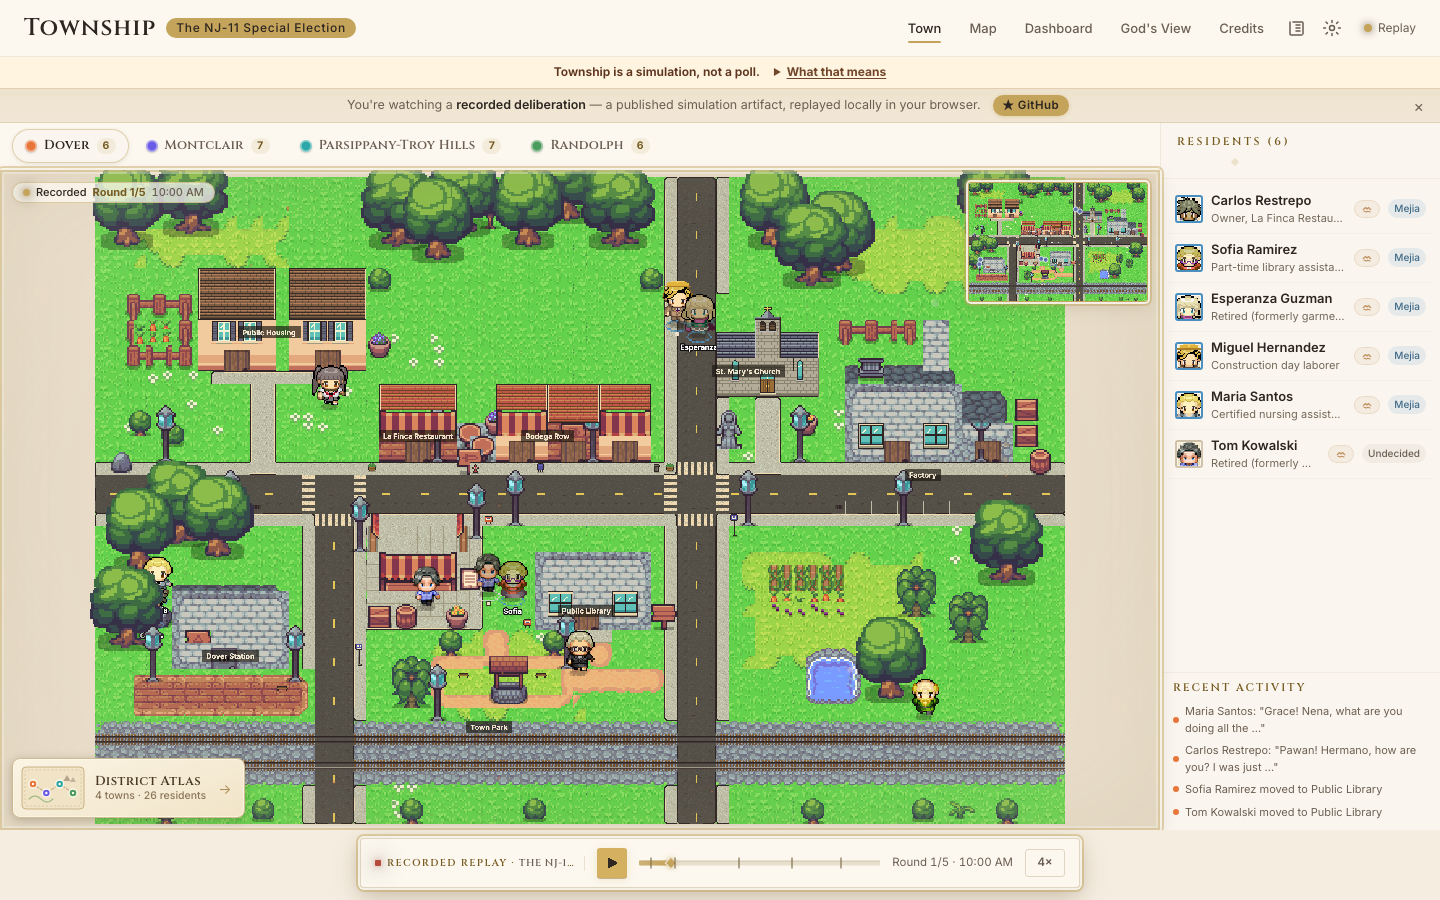
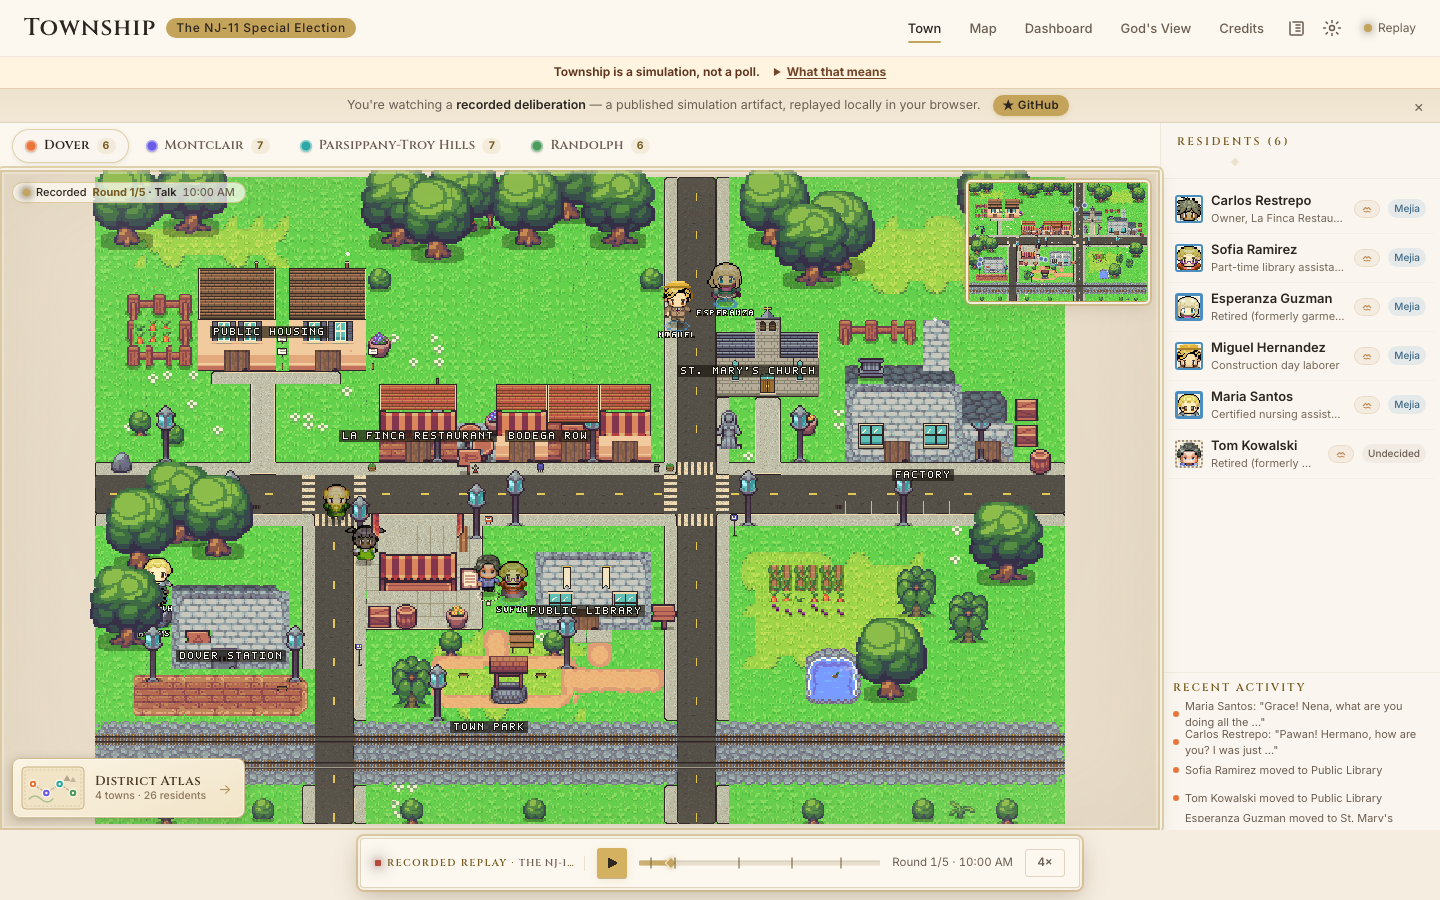
Docs + media: recut hero with decision day, decide and results stills, gallery; final gate
Media: the README hero is recut in five beats — the living overview, the
recorded two-shot, the recorded flip, decision day at the Public Library
(the replay's own decide phase played paced: the polling place opens,
residents queue at the rope, vote one at a time and take their stickers,
then the results bunting), and dusk to night over the decided town. Two
new demo-player stills capture the vote and the results; every scene,
atlas, dashboard, mobile and social capture is regenerated with the
current town. make_gif.py steps the width and palette down to fit the
8 MiB budget instead of failing a whole capture.

Docs: the architecture guide covers NavGrid paths, conversation
choreography, day-part poses, stance tiers, reactions, CivicLayer and
the election derivation, plus the seeded, relationship-aware pairing and
routine meeting places; CLAUDE.md's key-directories table names the new
modules; the media README describes the new hero and stills; the README
gallery gains a row for decision day, results, and the second scenario.

Also from the live-run gate: yard-sign seats go to residents with a
stance before the undecided, and residents still undecided at the vote
cast too and wear a plain sticker (the backend marks them decided).

diff --git a/frontend/src/game/TownScene.ts b/frontend/src/game/TownScene.ts
@@ -1175,7 +1175,6 @@ export class TownScene extends Phaser.Scene {
       const sprite = this.agentSprites.get(id);
       if (!sprite || sprite === this.playerSprite || sprite.isDecided()) continue;
       const stance = sprite.getStance();
-      if (stance.undecided) continue;
       if (mode === "silent" || reducedMotion()) {
         sprite.setDecided(stance.optionId, "silent");
         continue;
@@ -1252,8 +1251,9 @@ export class TownScene extends Phaser.Scene {
   /**
    * Decision day: residents walk to the polling place in `order`, wait at
    * the rope, step up to the ballot box one at a time, cast (voting pulse,
-   * sticker, ballot), and step aside. Residents already stamped, undecided
-   * residents, and anyone mid-conversation are left where they are.
+   * sticker, ballot), and step aside. Residents already stamped and anyone
+   * mid-conversation are left where they are; a resident still undecided
+   * casts too and wears a plain sticker.
    */
   startBallotProcession(order: string[]) {
     if (!this.civic?.isPollingOpen() || reducedMotion()) return;
@@ -1262,7 +1262,7 @@ export class TownScene extends Phaser.Scene {
     const voters = order
       .map((id) => this.agentSprites.get(id))
       .filter((sp): sp is AgentSprite => Boolean(sp) && sp !== this.playerSprite && sp!.active)
-      .filter((sp) => !sp.isDecided() && !sp.getStance().undecided && !this.choreo.inConversation(sp.agentId));
+      .filter((sp) => !sp.isDecided() && !this.choreo.inConversation(sp.agentId));
     const slots = this.civic.getBallotQueueSlots(voters.length);
     voters.forEach((sprite, i) => {
       const slot = slots[i] ?? box;

diff --git a/frontend/src/game/CivicLayer.ts b/frontend/src/game/CivicLayer.ts
@@ -322,12 +322,15 @@ export class CivicLayer {
   /* ── Yard signs ─────────────────────────────────────────────────────── */
 
   /**
-   * Deterministic seats: residents sorted by id, each taking the first free
-   * sign on their own home's lawn, then (second pass) the free sign nearest
-   * their home. Signs may stay blank; nobody gets two.
+   * Deterministic seats: residents with a stance first (a lawn with a sign
+   * to show beats a blank one when seats are scarce), then the undecided,
+   * each sorted by id; every resident takes the first free sign on their
+   * own home's lawn, then (second pass) the free sign nearest their home.
+   * Signs may stay blank; nobody gets two.
    */
   private assignSeats(residents: CivicResident[]): Map<number, CivicResident> {
-    const sorted = [...residents].sort((p, q) => p.id.localeCompare(q.id));
+    const sorted = [...residents].sort((p, q) =>
+      Number(p.undecided) - Number(q.undecided) || p.id.localeCompare(q.id));
     const key = sorted.map((r) => `${r.id}@${r.home}`).join("|") + `#${this.signs.length}`;
     const cached = this.seatCache.get(key);
     const out = new Map<number, CivicResident>();

diff --git a/frontend/src/components/TownView.tsx b/frontend/src/components/TownView.tsx
@@ -559,12 +559,10 @@ export default function TownView({ ws }: TownViewProps) {
           }
           break;
         case "simulation_ended": {
-          // Every resident with a stance has cast their ballot by now (the
-          // polling-place procession stamps most of them earlier); then the
-          // winner's supporters celebrate.
-          const decidedIds = townAgents
-            .filter((a) => a.opinion?.candidate && a.opinion.candidate !== scen.undecidedId)
-            .map((a) => a.id);
+          // Every resident has cast their ballot by now (the polling-place
+          // procession stamps most of them earlier; the undecided wear a plain
+          // sticker); then the winner's supporters celebrate.
+          const decidedIds = townAgents.map((a) => a.id);
           const tally = (evt.summary?.overall_opinions ?? {}) as Record<string, number>;
           let winner: string | null = null;
           for (const [id, count] of Object.entries(tally)) {

diff --git a/frontend/src/game/AgentSprite.ts b/frontend/src/game/AgentSprite.ts
@@ -1190,7 +1190,7 @@ export class AgentSprite extends Phaser.GameObjects.Container {
     this.lastMood = null;
     this.restoreTints();
     this.setStance(stance, "silent");
-    this.setDecided(extras?.decided && !stance.undecided ? stance.optionId : null, "silent");
+    this.setDecided(extras?.decided ? stance.optionId : null, "silent");
     this.setActivity(activity, true);
   }
 

diff --git a/scripts/capture/make_gif.py b/scripts/capture/make_gif.py
@@ -24,17 +24,9 @@ def main() -> int:
         print(f"make_gif: no PNG frames in {frames_dir}", file=sys.stderr)
         return 1
 
-    # Frames are canvas-only crops; derive the height from the first frame so
-    # the GIF keeps the town's true aspect instead of stretching to a fixed box.
-    with Image.open(paths[0]) as first:
-        target_size = (
-            TARGET_WIDTH,
-            max(1, round(first.height * TARGET_WIDTH / first.width / 2) * 2),
-        )
-
     # Identical consecutive captures (hold frames) collapse into a single GIF
     # frame with a longer duration — same rhythm, far smaller file.
-    frames: list[Image.Image] = []
+    sources: list[Image.Image] = []
     durations: list[int] = []
     previous_bytes: bytes | None = None
     for path in paths:
@@ -44,26 +36,44 @@ def main() -> int:
             continue
         previous_bytes = raw
         with Image.open(path) as source:
-            frame = source.convert("RGB").resize(target_size, Image.Resampling.LANCZOS)
-            frames.append(frame.quantize(colors=72, method=Image.Quantize.MEDIANCUT))
+            sources.append(source.convert("RGB"))
             durations.append(190)
 
     output.parent.mkdir(parents=True, exist_ok=True)
-    frames[0].save(
-        output,
-        save_all=True,
-        append_images=frames[1:],
-        duration=durations,
-        loop=0,
-        optimize=True,
-        disposal=2,
-    )
-    size = output.stat().st_size
-    print(f"make_gif: {len(frames)} frames, {size / (1024 * 1024):.2f} MiB → {output}")
-    if size > MAX_BYTES:
-        print("make_gif: output exceeds the 8 MiB README budget", file=sys.stderr)
-        return 1
-    return 0
+    # Frames are canvas-only crops; derive the height from the first frame so
+    # the GIF keeps the town's true aspect instead of stretching to a fixed
+    # box. The README budget is fixed, so when a longer cut lands over it the
+    # encoder steps the width (then the palette) down until it fits rather
+    # than failing the whole capture.
+    attempts = [(TARGET_WIDTH, 72), (864, 72), (832, 72), (800, 72), (800, 64), (768, 64)]
+    size = 0
+    for width, colors in attempts:
+        first = sources[0]
+        target_size = (width, max(1, round(first.height * width / first.width / 2) * 2))
+        frames = [
+            source.resize(target_size, Image.Resampling.LANCZOS).quantize(
+                colors=colors, method=Image.Quantize.MEDIANCUT
+            )
+            for source in sources
+        ]
+        frames[0].save(
+            output,
+            save_all=True,
+            append_images=frames[1:],
+            duration=durations,
+            loop=0,
+            optimize=True,
+            disposal=2,
+        )
+        size = output.stat().st_size
+        print(
+            f"make_gif: {len(frames)} frames at {width}px / {colors} colours, "
+            f"{size / (1024 * 1024):.2f} MiB → {output}"
+        )
+        if size <= MAX_BYTES:
+            return 0
+    print("make_gif: output exceeds the 8 MiB README budget", file=sys.stderr)
+    return 1
 
 
 if __name__ == "__main__":

diff --git a/docs/architecture.md b/docs/architecture.md
@@ -56,7 +56,7 @@ publishes an event through `EventBus`.
 
 **Orchestrator — `backend/simulation/orchestrator.py`.** `SimulationOrchestrator` owns runtime state: one `AgentState` list per town, built from the scenario's persona definitions. `run_full_simulation()` announces the roster (`simulation_started`) and advances towns in parallel inside a deterministic outer round barrier: weather is emitted for the round, each active town completes that round through its own `RoundManager`, then configured cross-town gossip lands before any town advances again. When the rounds finish it aggregates a `DistrictSummary` (prediction percentages, consensus zones, fault lines, total cost), emits `simulation_ended`, and attempts cache/run finalization without making paperwork failure retroactively fail the deliberation (see [Runs, recap, replay](#runs-recap-and-replay)). It also implements God's View: inject a development into every agent, collect `ReactToNews` responses, and re-run `FormOpinion` for anyone actually moved. Simulation, replay, and injection share one admission reservation so their mutations and event histories cannot overlap.
 
-**RoundManager — `backend/simulation/round_manager.py`.** The core loop, one instance per town. It walks the scenario's `round_plan` and dispatches each declared phase in order: `seed` (full briefing → initial opinion), `converse` (random in-town pairs, 3-exchange conversations at a random landmark), `news` (inject beats, collect reactions), `opinion` (reflect on the 10 most recent memories, re-form opinion), `decide` (mark agents decided — no LLM call). Every phase both mutates agent state (memories, opinions) and publishes events. A provider error marks the agent `ERROR` rather than minting a confident fake opinion.
+**RoundManager — `backend/simulation/round_manager.py`.** The core loop, one instance per town. It walks the scenario's `round_plan` and dispatches each declared phase in order: `seed` (full briefing → initial opinion), `converse` (in-town pairs chosen by a seeded, relationship-aware matching — declared ties and shared concerns pull people together, last rounds' partners are pushed apart — meeting where their routines put them at the round's clock, 3-exchange conversations), `news` (inject beats, collect reactions), `opinion` (reflect on the 10 most recent memories, re-form opinion), `decide` (mark agents decided — no LLM call). Every phase both mutates agent state (memories, opinions) and publishes events. A provider error marks the agent `ERROR` rather than minting a confident fake opinion.
 
 **Tool schemas — `backend/tools/schemas.py`.** Agents never free-associate their decisions; they call typed tools. `build_tools(scenario)` produces the per-scenario registry: `Discuss` (response, sentiment, key takeaway, gesture), `FormOpinion` (whose `candidate` enum *is* the scenario's stance roster), `ReactToNews` (emotional response, impact on stance), and the scenario-independent `ClassifyInteraction` used by player chat to adjust trust.
 
@@ -70,7 +70,7 @@ publishes an event through `EventBus`.
 
 **CLI — `backend/cli.py`.** The `township` command (installed by `make install` via `pyproject.toml`): `serve` (uvicorn with `SCENARIO`/`LLM_PROVIDER` set for you), `run` (headless simulation with per-round progress, prediction, recap, and the run directory printed), `replay` (a persisted run or a scenario's demo cache, rendered to the terminal), `scenarios` (list and health-check every package), and the `new-scenario` / `new-agent` scaffolds.
 
-**Frontend.** `frontend/src/hooks/useWebSocket.ts` opens `/ws` (auto-reconnect, 3 s backoff) and folds every public event into one `useReducer` store: agent map, conversations, town summaries, world clock, weather, and a rolling 500-event buffer. Capability-protected relationships travel only in the initiating chat response and are synchronized locally by `useRelationships`; journals use the same browser capability. `frontend/src/context/ScenarioContext.tsx` fetches `GET /api/scenario` once and provides option colors/labels, map metadata, and `decision_kind`-aware wording to every component. `frontend/src/game/TownScene.ts` loads authored art only when the town declares its scenario-qualified `.tmj`; otherwise it builds a complete scene from `GET /api/towns` landmarks. Agent sprites tween to `agent_moved` coordinates, speech bubbles show simulation dialogue, and opinion rings ripple on `opinion_changed`. React components (`TownView`, `Dashboard`, `GodsView`, `ChatPanel`) render the same public stream plus their explicitly scoped local state.
+**Frontend.** `frontend/src/hooks/useWebSocket.ts` opens `/ws` (auto-reconnect, 3 s backoff) and folds every public event into one `useReducer` store: agent map, conversations, town summaries, world clock, weather, and a rolling 500-event buffer. Capability-protected relationships travel only in the initiating chat response and are synchronized locally by `useRelationships`; journals use the same browser capability. `frontend/src/context/ScenarioContext.tsx` fetches `GET /api/scenario` once and provides option colors/labels, map metadata, and `decision_kind`-aware wording to every component. `frontend/src/game/TownScene.ts` loads authored art only when the town declares its scenario-qualified `.tmj`; otherwise it builds a complete scene from `GET /api/towns` landmarks. Residents walk `agent_moved` coordinates along A* paths over a nav grid built from the map's collision layer and ground kinds (`NavGrid.ts`), arrive at landmark doors rather than geometric centres, and take day-part poses from the place and the hour (`DayPart.ts`). `Conversations.ts` choreographs a conversation as a scene — participants walk into formation, speakers lean and listeners nod, a topic strip and a takeaway card frame the exchange, and the group disperses when it ends. Speech bubbles carry the line's sentiment in their ink; opinion rings are drawn per confidence tier (`lib/stance.ts`) so only a real flip earns confetti; `news_reaction` events play as pixel reactions on the resident. `CivicLayer.ts` dresses the map's civic anchors from one derived environment (`lib/election.ts`: the round plan plus the reducer's raw signals): yard signs and banners take colour once opinions are public, the notice board pins headlines, the polling place opens for the decide phase and residents process to the ballot box, and results hang bunting and post a tally. Every one of these is re-derived silently on a replay seek. React components (`TownView`, `Dashboard`, `GodsView`, `ChatPanel`) render the same public stream plus their explicitly scoped local state.
 
 **Private player state.** Township has no account system, so a random browser-held capability authorizes one `user_id`; only its SHA-256 digest is stored. A first binding is persisted before a relationship or journal can be created, and each private mutation is atomically durable before the endpoint acknowledges success. Capability, relationship, and journal files are validated strictly at startup. Corruption or a required write/migration failure locks the entire private subsystem closed. Upgrade records that lack a capability binding have no defensible owner, so startup removes them from the active store and writes a server-local `*.legacy-unbound.json` quarantine that no route reads.
 

diff --git a/README.md b/README.md
@@ -27,7 +27,7 @@
 
 <p align="center">
   <a href="https://stevenwang-cy.github.io/township/">
-    <img src="docs/media/hero.gif" alt="The living town of Dover from above: residents go about their routines, the camera closes on two neighbors talking through the election in readable speech bubbles, one changes their mind with a burst of confetti, then dusk settles and lamplit night falls" width="896">
+    <img src="docs/media/hero.gif" alt="The living town of Dover from above: residents go about their routines, the camera closes on two neighbors talking through the election in readable speech bubbles, one changes their mind with a burst of confetti, the polling place opens at the Public Library and residents queue, vote and take their stickers, then dusk settles and lamplit night falls over the decided town" width="896">
   </a>
 </p>
 
@@ -69,6 +69,16 @@ without credentials.
     <td align="center"><strong>Ask "what if"</strong><br><sub>God's View injects a hypothetical and shows every resident's reaction, before and after.</sub></td>
     <td align="center"><strong>Watch the district live</strong><br><sub>Stances shift town by town mid-run; a narrative recap lands when it ends.</sub></td>
     <td align="center"><strong>Stay past dusk</strong><br><sub>One world clock drives lighting, routines, windows, and lamplight in every town.</sub></td>
+  </tr>
+  <tr>
+    <td width="33%" align="center"><a href="https://stevenwang-cy.github.io/township/"><img src="docs/media/demo-player/06-decide.png" alt="Decision day in Dover: the replay's vote phase with the polling place open at the Public Library, a VOTE sign and ballot box at the door, residents queued at the rope while one casts, and the first voted stickers on their coats"></a></td>
+    <td width="33%" align="center"><a href="https://stevenwang-cy.github.io/township/"><img src="docs/media/demo-player/07-results.png" alt="Results in Dover: bunting in the winner's colour along the library roofline, a tally sheet posted at the park notice board, and stickered residents celebrating outside the polling place at dusk"></a></td>
+    <td width="33%" align="center"><a href="https://stevenwang-cy.github.io/township/"><img src="docs/media/scene/millbrook-village-day.png" alt="Millbrook Village by day: a different scenario package rendered by the same engine, with its own residents, landmarks, river and farmers market"></a></td>
+  </tr>
+  <tr>
+    <td align="center"><strong>See the town decide</strong><br><sub>Yard signs take colour once opinions are public, the notice board pins each headline, and on decision day residents walk to the polls and vote one at a time.</sub></td>
+    <td align="center"><strong>Read the result in the world</strong><br><sub>Bunting, a tally at the kiosk, and celebrations — all derived from the same events a seek can rewind.</sub></td>
+    <td align="center"><strong>Swap the folder</strong><br><sub>A budget vote in Millbrook uses the same engine with its own cast, outfits, and map.</sub></td>
   </tr>
 </table>
 

diff --git a/docs/media/README.md b/docs/media/README.md
@@ -14,9 +14,9 @@ reproduced with `node scripts/capture/live-shots.mjs`.
 
 | Artifact | Purpose |
 |---|---|
-| [`hero.gif`](hero.gif) | README opening, canvas-only, four beats: the living overview at golden hour, a framed two-shot speaking the recorded Miguel ↔ Esperanza exchange, his recorded flip to Mejia (ring + confetti), then dusk-to-night as windows and lamps come on |
+| [`hero.gif`](hero.gif) | README opening, canvas-only, five beats: the living overview at golden hour, a framed two-shot speaking the recorded Miguel ↔ Esperanza exchange, his recorded flip to Mejia (ring + confetti), decision day at the Public Library as the recorded decide phase plays paced — the polling place opens and residents queue, vote and take their stickers, then the results bunting — and dusk-to-night as windows and lamps come on |
 | [`social-preview.png`](social-preview.png) | 1280×640 repository/social card composed from the real town renderer |
-| [`demo-player/`](demo-player/) | Map, replay, readable-dialogue timeline, final dashboard, and God's View surfaces from the zero-backend demo |
+| [`demo-player/`](demo-player/) | Map, replay, readable-dialogue timeline, final dashboard, God's View, decision day at the polling place, and the results (bunting, tally at the kiosk) from the zero-backend demo |
 | [`scene/`](scene/) | Day/night coverage for every shipped town, plus the District Atlas pixel overworld for both scenarios |
 | [`live/`](live/) | Live-backend surfaces: resident chat, a God's View injection before/after, the dashboard mid-run, and the narrative recap card |
 | [`mobile/`](mobile/) | 390×844 map and town checks |

diff --git a/CLAUDE.md b/CLAUDE.md
@@ -21,8 +21,8 @@ when recap generation succeeds; completed artifacts are served via `/api/runs`.
 | `backend/routes/` | REST + WS routers: simulation, chat, gods_view, scenario, towns, journal, runs, transcribe, tts |
 | `backend/cli.py` | The `township` CLI (Typer): serve, run, replay, scenarios, new-scenario, new-agent |
 | `scenarios/<id>/` | `scenario.json`, `towns/*.json`, `options/*.json`, `agents/<town>/*.md`, `context/*.json`, `god-scenarios.json` |
-| `frontend/src/game/` | Phaser: `TownScene.ts`, `AgentSprite.ts`, world clock, weather, routines |
-| `frontend/src/components/`, `hooks/` | React UI (TownView, Dashboard, GodsView, ChatPanel) and the WS/REST hooks |
+| `frontend/src/game/` | Phaser: `TownScene.ts`, `AgentSprite.ts`, `NavGrid.ts` (A* paths), `Conversations.ts` (choreography), `DayPart.ts`, `CivicLayer.ts` (election dressing), `SceneAmbience.ts`, world clock, weather |
+| `frontend/src/components/`, `hooks/`, `lib/` | React UI (TownView, Dashboard, GodsView, ChatPanel), the WS/REST hooks, and pure helpers (`lib/stance.ts` confidence tiers, `lib/election.ts` phase resolution) |
 | `scripts/mapgen/` | Named-GID tile registry + validators for the vendored ai-town tileset |
 | `tests/` | Backend contract tests — the whole suite runs offline, no credentials needed |
 
